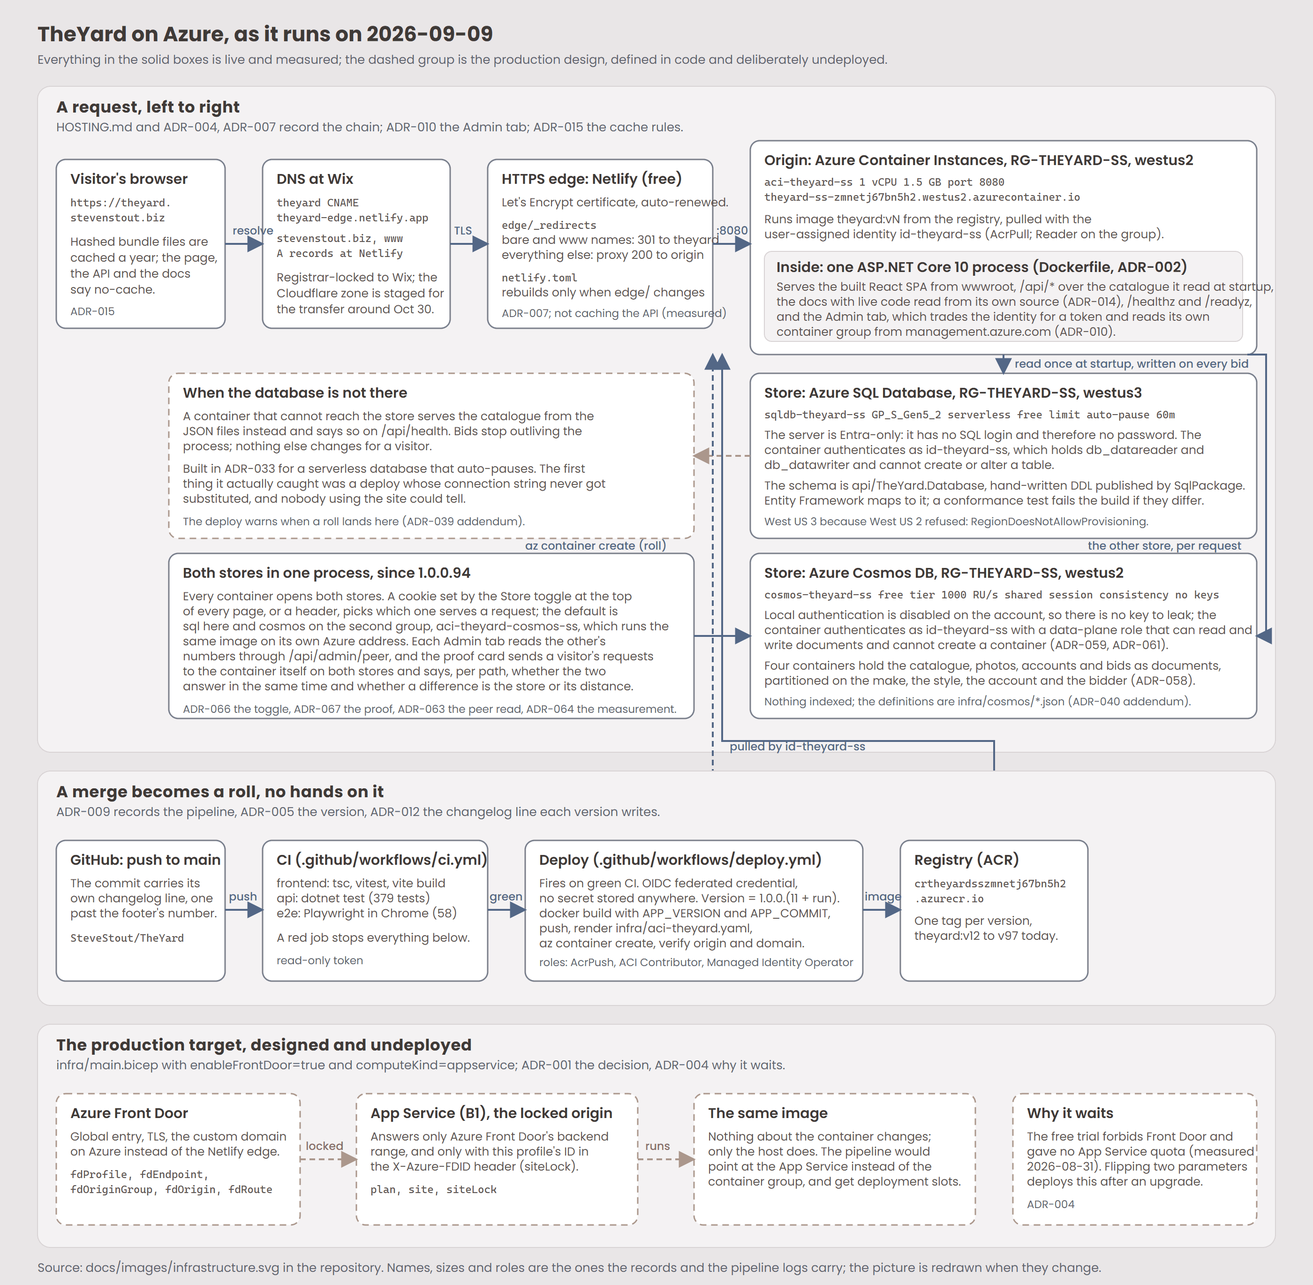
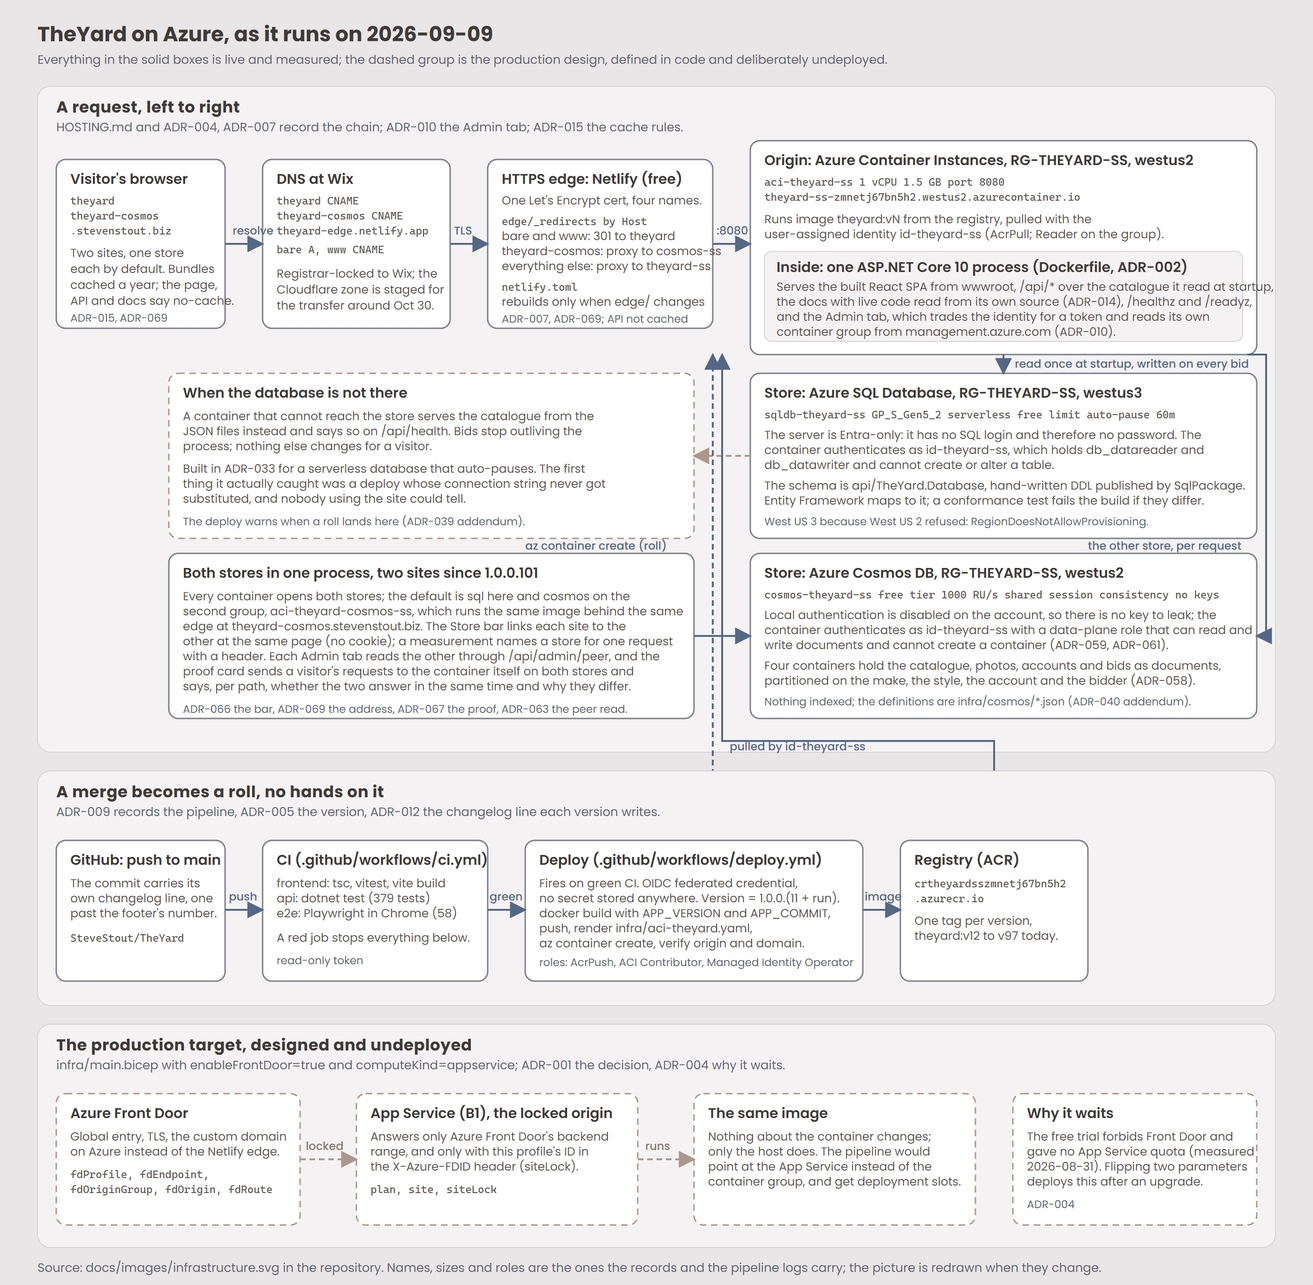
The document store in the console log, and the drawing brought up to date
The Admin tab's log card showed every SQL statement, because Entity Framework
logs each command, and nothing for the document store. The store now writes
one line per operation to the application's logger in the same shape: what
ran, on which container, the request units, the time, the partition described
and the query with its parameters by name and never a value. A test reads the
line back on the Cosmos DB pass and checks the address it looked up is
nowhere on the page. The infrastructure drawing names both sites, both CNAME
records, the rule the Host header picks and the Store bar as a link; ADR-006
and ADR-062 carry addenda, ADR-018 its new numbers.

The accessibility scans are declared slow. On this 8 GB machine, with four
Chrome workers sharing it with the .NET side of the gate, two of them ran
past the sixty-second budget this morning while asserting nothing less, and
every xUnit run was green each time; test.slow() triples their budget and
changes nothing they assert. ADR-068 carries the three reds and the memory
read before each retake.

Claude-Session: https://claude.ai/code/session_01PyoX8ppFKqD8yswYdoiK1w

diff --git a/src/components/AdminPanel.tsx b/src/components/AdminPanel.tsx
@@ -709,11 +709,13 @@ export function AdminPanel({ onBack }: { onBack: () => void }) {
         <h2 className={styles.cardTitle}>The log, as the console got it</h2>
         <p className={styles.muted}>
           This application&rsquo;s own log lines at Information and above, newest first, holding the
-          last 300 in memory. Its own, and the one framework category the section above exists to
-          show: the rest of the framework is left out because a healthy container announces its
-          content root and its key directory, and those are server paths on a public page. An
-          exception shows its type. Its message stays server-side, because a database driver writes
-          the server name, the login name and the caller&rsquo;s address into one.
+          last 300 in memory. Its own, which since 1.0.0.103 includes one line per document store
+          operation with its charge and its time, and the one framework category that gives every
+          SQL statement a line of its own: the rest of the framework is left out because a healthy
+          container announces its content root and its key directory, and those are server paths on
+          a public page. An exception shows its type. Its message stays server-side, because a
+          database driver writes the server name, the login name and the caller&rsquo;s address into
+          one.
         </p>
         {logs === null ? (
           <p className={styles.muted}>Loading…</p>

diff --git a/tests/e2e/axe.spec.ts b/tests/e2e/axe.spec.ts
@@ -52,6 +52,17 @@ test.describe('WCAG 2.1 AA, on every view', () => {
   //
   // The per-describe override that used to sit here is gone: the whole suite
   // runs at sixty now, for the same reason and one the load wait needs too.
+  //
+  // And since the gate runs its two sides at once (ADR: The five-minute gate),
+  // sixty was not enough here either: on the morning of 2026-09-09 the phone
+  // scan and the open records index each ran past it once, on an 8 GB machine
+  // with a gigabyte free while four Chrome workers shared it with xUnit,
+  // dotnet format and the SQL build, and every other suite was green each
+  // time. Slow is the truth about these scans on that machine, so they are
+  // declared slow, which triples their budget. Nothing asserted changes: a
+  // scan that hangs still fails, later, and one that finishes still has to
+  // find zero violations.
+  test.slow();
 
   test('the inventory', async ({ page }) => {
     await openTheYard(page);

diff --git a/tests/e2e/admin.spec.ts b/tests/e2e/admin.spec.ts
@@ -46,6 +46,12 @@ test('the Admin tab shows the running system reporting on itself', async ({ page
     page.getByTestId('sql-card').or(page.getByTestId('store-card')).first()
   ).toBeVisible();
   await expect(page.getByTestId('log-card')).toContainText('Category');
+  // The document store gets a console line per operation, the way every SQL
+  // statement gets one (ADR: What the store is actually doing, addendum); on
+  // the two-store shape the log card shows it.
+  if (shape.stores.length > 1) {
+    await expect(page.getByTestId('log-card')).toContainText('Executed Cosmos DB');
+  }
   await page.getByRole('button', { name: 'Back to inventory' }).click();
   await expect(page.getByRole('heading', { name: 'Inventory' })).toBeVisible();
 });

diff --git a/api/TheYard.Infrastructure.Cosmos/CosmosStore.cs b/api/TheYard.Infrastructure.Cosmos/CosmosStore.cs
@@ -5,6 +5,8 @@ using System.Text.Json.Serialization;
 using Azure.Core;
 using Azure.Identity;
 using Microsoft.Azure.Cosmos;
+using Microsoft.Extensions.Logging;
+using Microsoft.Extensions.Logging.Abstractions;
 using TheYard.Application;
 
 namespace TheYard.Infrastructure.Cosmos;
@@ -99,6 +101,19 @@ public sealed class CosmosStore
     /// what a startup operation records.
     /// </summary>
     public ICurrentRequest CurrentRequest { get; set; } = NoCurrentRequest.Instance;
+
+    /// <summary>
+    /// The application's logger, set by the host once there is an application,
+    /// the way the relational side attaches Entity Framework's command logging
+    /// after the container is built. One line per operation at Information,
+    /// so the console, and the Admin tab's log card that mirrors it, show the
+    /// document store's traffic the way they show every SQL statement
+    /// (ADR: What the store is actually doing, addendum). The line carries the
+    /// kind, the container, the charge, the time, the partition described and
+    /// the query shape; never a value, for the reason the store log gives.
+    /// Silent until attached.
+    /// </summary>
+    public ILogger Logger { get; set; } = NullLogger.Instance;
 
     /// <summary>Any container of this database by its catalog name, prefixed like the rest. The experiment reads the catalogue through this.</summary>
     public Container ContainerNamed(string name) => _database.GetContainer(_prefix + name);
@@ -419,31 +434,42 @@ public sealed class CosmosStore
         }
     }
 
+    // #region record
     private void Record(Container container, string kind, string text, IReadOnlyList<SqlParameterShape> parameters, string partitionLabel, int physical, double charge, TimeSpan elapsed, string outcome)
     {
         // Nothing in here may break the operation it observed
         // (ADR: What the database is actually doing).
         try
         {
+            string name = NameOf(container);
+            double rounded = Math.Round(charge, 2);
+            long ms = (long)elapsed.TotalMilliseconds;
             _log.Record(new StoreOperation(
                 DateTimeOffset.UtcNow,
-                NameOf(container),
+                name,
                 kind,
                 text,
                 parameters,
                 partitionLabel,
                 physical,
-                Math.Round(charge, 2),
-                (long)elapsed.TotalMilliseconds,
+                rounded,
+                ms,
                 outcome,
                 CurrentRequest.Describe(),
                 CurrentRequest.Identify()));
+            // The same operation as one console line, the shape Entity
+            // Framework gives a statement: what ran, what it cost, how long,
+            // and the query with its parameters by name and never by value.
+            Logger.LogInformation(
+                "Executed Cosmos DB {Kind} on {Container} ({Charge} RU, {Ms} ms, {Partition}) {Outcome}: {Text}",
+                kind, name, rounded, ms, partitionLabel, outcome, text);
         }
         catch
         {
             // Deliberately silent, for the reason the SQL interceptor gives.
         }
     }
+    // #endregion record
     // #endregion operations
 }
 

diff --git a/api/TheYard.Tests/AdminObservabilityTests.cs b/api/TheYard.Tests/AdminObservabilityTests.cs
@@ -162,6 +162,58 @@ public class AdminObservabilityTests(WebApplicationFactory<Program> factory)
     }
 
     /// <summary>
+    /// The console log gives the document store one line per operation, the
+    /// shape Entity Framework gives every statement, so the Admin tab's log
+    /// card shows both stores' traffic (ADR: What the store is actually doing,
+    /// addendum). On a container with a document store a request served by it
+    /// leaves a line under the store's own category; on SQLite alone the SQL
+    /// lines are still there and nothing pretends otherwise.
+    /// </summary>
+    [Fact]
+    public async Task The_log_gives_the_document_store_a_line_per_operation_beside_the_sql_ones()
+    {
+        var stores = await _client.GetFromJsonAsync<JsonElement>("/api/stores");
+        bool document = stores.GetProperty("stores").EnumerateArray()
+            .Any(store => store.GetProperty("key").GetString() == "cosmos");
+
+        using var request = new HttpRequestMessage(HttpMethod.Get, "/api/facets");
+        request.Headers.Add(Backends.HeaderName, document ? "cosmos" : "sql");
+        (await _client.SendAsync(request)).EnsureSuccessStatusCode();
+        // A sign-in attempt reaches the store on either side: Identity looks
+        // the address up, which is a statement on one store and a point read
+        // on the other.
+        using var login = new HttpRequestMessage(HttpMethod.Post, "/api/auth/login")
+        {
+            Content = JsonContent.Create(new { email = "nobody-" + Guid.NewGuid().ToString("N") + "@example.com", password = "wrong horse" }),
+        };
+        login.Headers.Add(Backends.HeaderName, document ? "cosmos" : "sql");
+        await _client.SendAsync(login);
+
+        string body = await _client.GetStringAsync("/api/admin/logs");
+        using var json = JsonDocument.Parse(body);
+        var entries = json.RootElement.EnumerateArray().ToList();
+
+        Assert.Contains(entries, entry => entry.GetProperty("category").GetString() == "Microsoft.EntityFrameworkCore.Database.Command"
+            || entry.GetProperty("category").GetString()!.StartsWith("TheYard.", StringComparison.Ordinal));
+        if (document)
+        {
+            var lines = entries
+                .Where(entry => entry.GetProperty("category").GetString() == "TheYard.Infrastructure.Cosmos.CosmosStore")
+                .ToList();
+            Assert.NotEmpty(lines);
+            foreach (var line in lines)
+            {
+                string message = line.GetProperty("message").GetString()!;
+                Assert.StartsWith("Executed Cosmos DB ", message);
+                Assert.Contains(" RU, ", message);
+                Assert.Contains(" ms, ", message);
+            }
+            // Never a value: the address that was looked up is not on the page.
+            Assert.DoesNotContain("@example.com", body);
+        }
+    }
+
+    /// <summary>
     /// Every store a container runs answers a window of its own on the same
     /// rows, which is what the Timing card's two store lines and the
     /// comparison card draw from (ADR: Backends, side by side, the addendum on

diff --git a/api/TheYard.Api/Program.cs b/api/TheYard.Api/Program.cs
@@ -498,8 +498,14 @@ var telemetry = new TelemetryReader(
 var app = builder.Build();
 
 // Entity Framework's own command log goes where every other log line goes,
-// which the Admin tab's log section and a test both rely on.
+// which the Admin tab's log section and a test both rely on; the document
+// store writes one line per operation to the same place from here on
+// (ADR: What the store is actually doing, addendum).
 contexts?.Attach(app.Services.GetRequiredService<ILoggerFactory>());
+if (cosmos is not null)
+{
+    cosmos.Logger = app.Services.GetRequiredService<ILoggerFactory>().CreateLogger<CosmosStore>();
+}
 
 // The address the proof talks to itself on, read once the server is up.
 // Kestrel reports the wildcard it bound ("http://[::]:8080"), which is not

diff --git a/docs/CHANGELOG.md b/docs/CHANGELOG.md
@@ -9,6 +9,7 @@ footer cannot disagree (ADR: The version comes from the changelog). One number
 is missing, 1.0.0.39, skipped under the older formula when a red build consumed
 a deploy run number.
 
+- **1.0.0.103** (2026-09-09): The document store in the console log, and the drawing brought up to date. Steve, reading both Admin tabs: "missing a log on the cosmosDB like SQL ... even if it's a log of the API requests". The log card showed every SQL statement because Entity Framework logs each command and nothing for the document store, so the store now writes one line per operation to the application's logger in the same shape, what ran, on which container, the request units, the time, the partition described and the query with its parameters by name and never a value; a test reads the line back on the gate's Cosmos DB pass and checks the address it looked up is nowhere on the page. The infrastructure drawing names both sites, both CNAME records, the rule the Host header picks and the Store bar as a link, where it still said one name and a cookie; the docs-and-testing record says so. And the gate's own accessibility scans are declared slow, because on this 8 GB machine, with four Chrome workers sharing it with the .NET side, two of them ran past sixty seconds this morning while asserting nothing less; the five-minute gate's record carries the three reds and the memory read before each retake. One xUnit test more.
 - **1.0.0.102** (2026-09-09): The pictures, and the resume. The toggle as a link between the sites, followed both ways on the real hosts by the live check and photographed: the live site, the second site it lands on, both bars and the phone, in the one-container record; the Timing card before and after on both sites in the comparison record. And the resume the site serves at /api/docs/resume is the 2026-09-09 one, the file of record in the job hunt folder, two pages with the Cosmos DB work on them. Documents, images and one PDF.
 - **1.0.0.101** (2026-09-09): The toggle moved to the sites, and the second address read live. Steve's words: "the button should toggle between the two sites, not refresh in react or at least the URL should change". The Store bar's other segment is now a link to the other site at the same path and query, so the address bar changes and the page that arrives is that site's own on its default store; where a container names no other site the segment is drawn as not here, never as a dead button, and the sentence names the site as well as the store serving it. The cookie that chose a store retired with the in-place switch, because each site is one store's site now and a browser that toggled last week would otherwise have landed on the live site served from the other store with no control left to change it: the server reads the header or the default, expires the old cookie on sight, and the switch endpoint is gone with its tests, replaced by one that holds the expiry and the refusal. With it, the permanent address record gains what the morning read: the CNAME and the alias as Steve added them, the certificate reissued with four names, the address answering with the second store as its default at 07:58, and the meter before and after, one deploy and fifteen credits; the live site's Peer__Site becomes the new address, the Hosting page says the second site has a name, and a fourth drawing, TheYard's two sites, shows how the two names reach the two container groups through the one edge and how both groups reach both stores, on its own page and in the record, because he asked for the picture in as many words. And the Admin tab's third ask, his words "make sure the admin we have all of the same stats for cosmos as we do SQL server": the Timing card gains a document store line under the SQL line, the same three numbers plus the request units the window cost and how many operations fanned out across partitions, its window sentence names all three rings, and a container with no document store says so in words; the inventory behind it is in the comparison record's addendum. One xUnit test fewer for the toggle and one more for the metrics shape, five Vitest tests more, the browser count unchanged, all rewritten for the new shape.
 - **1.0.0.100** (2026-09-09): A permanent address for the second site. Steve's words: "we need a permanent url for the cosmos db". The edge gains two lines above its catch-all that send theyard-cosmos.stevenstout.biz to the second container group, the one whose default store is Azure Cosmos DB, so the second site gets the domain, the padlock and the port-free address the live site has, through the same Netlify site, the same certificate authority and the same deploy meter; the other three ways were priced and declined in the record, and the two parts outside the repository, a domain alias on the Netlify site and one CNAME at Wix, are spelled out in it. Sixty-nine records.

diff --git a/docs/ADR-068-the-five-minute-gate.md b/docs/ADR-068-the-five-minute-gate.md
@@ -151,3 +151,33 @@ the cheaper shape: the sides in a row would be about six minutes.
 - [`api/TheYard.Tests/AuthTests.cs`](https://github.com/SteveStout/TheYard/blob/main/api/TheYard.Tests/AuthTests.cs): the account tests, three classes over one base.
 - [`playwright.config.ts`](https://github.com/SteveStout/TheYard/blob/main/playwright.config.ts): the prebuilt server on the gate.
 - [`api/TheYard.Api/Program.cs`](https://github.com/SteveStout/TheYard/blob/main/api/TheYard.Api/Program.cs): where `Inventory:TargetCount` is read.
+
+## Addendum, 2026-09-09: the gate on a loaded machine, and the scans declared slow
+
+The morning after this record, the gate ran seven times for four versions
+and went red three times on the browser suite alone, with every xUnit run
+green each time: a sixty-second timeout on the phone scan (queue script 715,
+the gate at 452 s), a Chrome session closed under the practices spec (717,
+493 s), and a sixty-second timeout inside axe on the open records index
+(724, 373 s). The machine was measured before each retake rather than
+blamed: 8,040 MB in total, 1,100 MB free at 09:00 with Chrome at 3,277 MB
+across 51 processes, 1,793 MB free at 09:11 with Chrome at 1,898 MB. The
+gate's two sides share those four cores and that memory with the browser
+the developer is working in, and the two scans that failed are the two that
+read the most nodes.
+
+Two of the three are one defect and it is in the budget, not the scan: the
+accessibility scans measurably take more than sixty seconds on this machine
+under the gate's parallel load, and a budget that a test overruns while
+doing its work correctly is a wrong number. The describe now calls
+`test.slow()`, which triples the budget for those nine tests and nothing
+else; the scans assert exactly what they asserted, zero violations, and a
+scan that hangs still fails. The third, a closed session, is memory, and the
+lever for it is outside the repository: fewer Chrome windows while a gate
+runs, or a wider machine. It is logged in the gate's own numbers so the next
+one is a pattern and not a surprise.
+
+The five minutes stands as the target. A green gate on this machine with
+the developer's browser open measured 302 s and 342 s today, and 372 s on
+the first run after a restart with cold caches; the suites themselves fit,
+and the wall clock is the machine's.

diff --git a/docs/ADR-062-what-the-store-is-actually-doing.md b/docs/ADR-062-what-the-store-is-actually-doing.md
@@ -132,6 +132,33 @@ document store).
 - The relational side did not change. `ISqlLog`, the interceptor and the SQL
   card are as they were, and a container on SQL Server never sees the new type.
 
+## Addendum, 2026-09-09: one console line per operation, like every statement
+
+Steve, looking at both Admin tabs after the two-sites lane: "missing a log on
+the cosmosDB like SQL ... even if it's a log of the API requests". He was
+reading the last card, the log as the console got it. On the relational side
+that card shows every statement, because Entity Framework logs each command
+at Information and the ring captures that one framework category. The
+document store had its own card above with every operation, its charge and
+its partition, and nothing in the console log at all, so the third place the
+page shows a store's traffic showed one store.
+
+From 1.0.0.103 the store writes one line per operation to the application's
+logger, in the shape Entity Framework gives a statement: what ran, on which
+container, what it cost in request units, how long it took, the partition
+described, the outcome and the query with its parameters by name. Never a
+value, for the reason this record already gives. The logger is attached by
+the host after the container is built, the way the relational side attaches
+Entity Framework's, so a startup operation on a developer's machine is
+silent and everything after the application exists is on the console, in
+Application Insights, and on the card. A test asks the container for a
+request served by the document store and reads the line back under the
+store's own category, and checks the address it looked up is nowhere on the
+page.
+
+```live path=api/TheYard.Infrastructure.Cosmos/CosmosStore.cs region=record
+```
+
 ## Files
 
 - [`api/TheYard.Application/StoreLog.cs`](https://github.com/SteveStout/TheYard/blob/main/api/TheYard.Application/StoreLog.cs): the type with nowhere to put a value, and the port.

diff --git a/docs/ADR-006-docs-and-testing.md b/docs/ADR-006-docs-and-testing.md
@@ -47,6 +47,20 @@ records. This ADR closes that gap.
 - The cost is accepted and known: every new surface carries a doc, a menu
   entry, and a spec, which slows a ship by minutes and is worth it.
 
+## Addendum, 2026-09-09: the drawing carries the two sites
+
+The infrastructure drawing was redrawn by hand again for the morning's
+change (ADR: A permanent address for the second site): the visitor's box
+names both sites, the DNS box carries both CNAME records, the edge box says
+the Host header picks the origin and names the two rules above the
+catch-all, and the "both stores" box says the second group answers behind
+the same edge at its own name and that the Store bar links each site to the
+other rather than setting a cookie. A fourth drawing, TheYard's two sites,
+shows that path on its own at `/api/docs/diagrams/two-sites`, drawn by
+`docs/images/two-sites.mjs` in the same style. The PNG beside each SVG is
+rendered by `docs/images/render.mjs` in the repository's own Chrome, as
+before.
+
 ## Files
 
 Documentation:

diff --git a/README.md b/README.md
@@ -383,7 +383,7 @@ each with its own changelog line and, where it decided something, its own record
 
 ## Testing
 
-**API (379 xUnit tests, separate `TheYard.Tests` project):** one suite per onion layer.
+**API (380 xUnit tests, separate `TheYard.Tests` project):** one suite per onion layer.
 Domain (photo gallery determinism and make preference, FNV-1a known vectors, auction
 schedule bounds and boundaries, every filter rule, bid rules including increment tiers
 and buy-now precedence), application (`InventoryService` and `BidService` with in-memory

diff --git a/docs/ADR-018-program-cs-explained.md b/docs/ADR-018-program-cs-explained.md
@@ -186,16 +186,16 @@ the top of this record.
 
 ## Why this is one file
 
-It is 1,606 lines, and that is the first thing a reviewer notices, so it is
+It is 1,612 lines, and that is the first thing a reviewer notices, so it is
 worth saying that it is a decision rather than a drift.
 
 What those lines are:
 
 ```
-1,606 total
-  617 comment
+1,612 total
+  619 comment
    97 blank
-  892 code, across 35 endpoints
+  896 code, across 35 endpoints
 ```
 
 Twenty-five lines of code per endpoint, and most endpoints are a route, a
